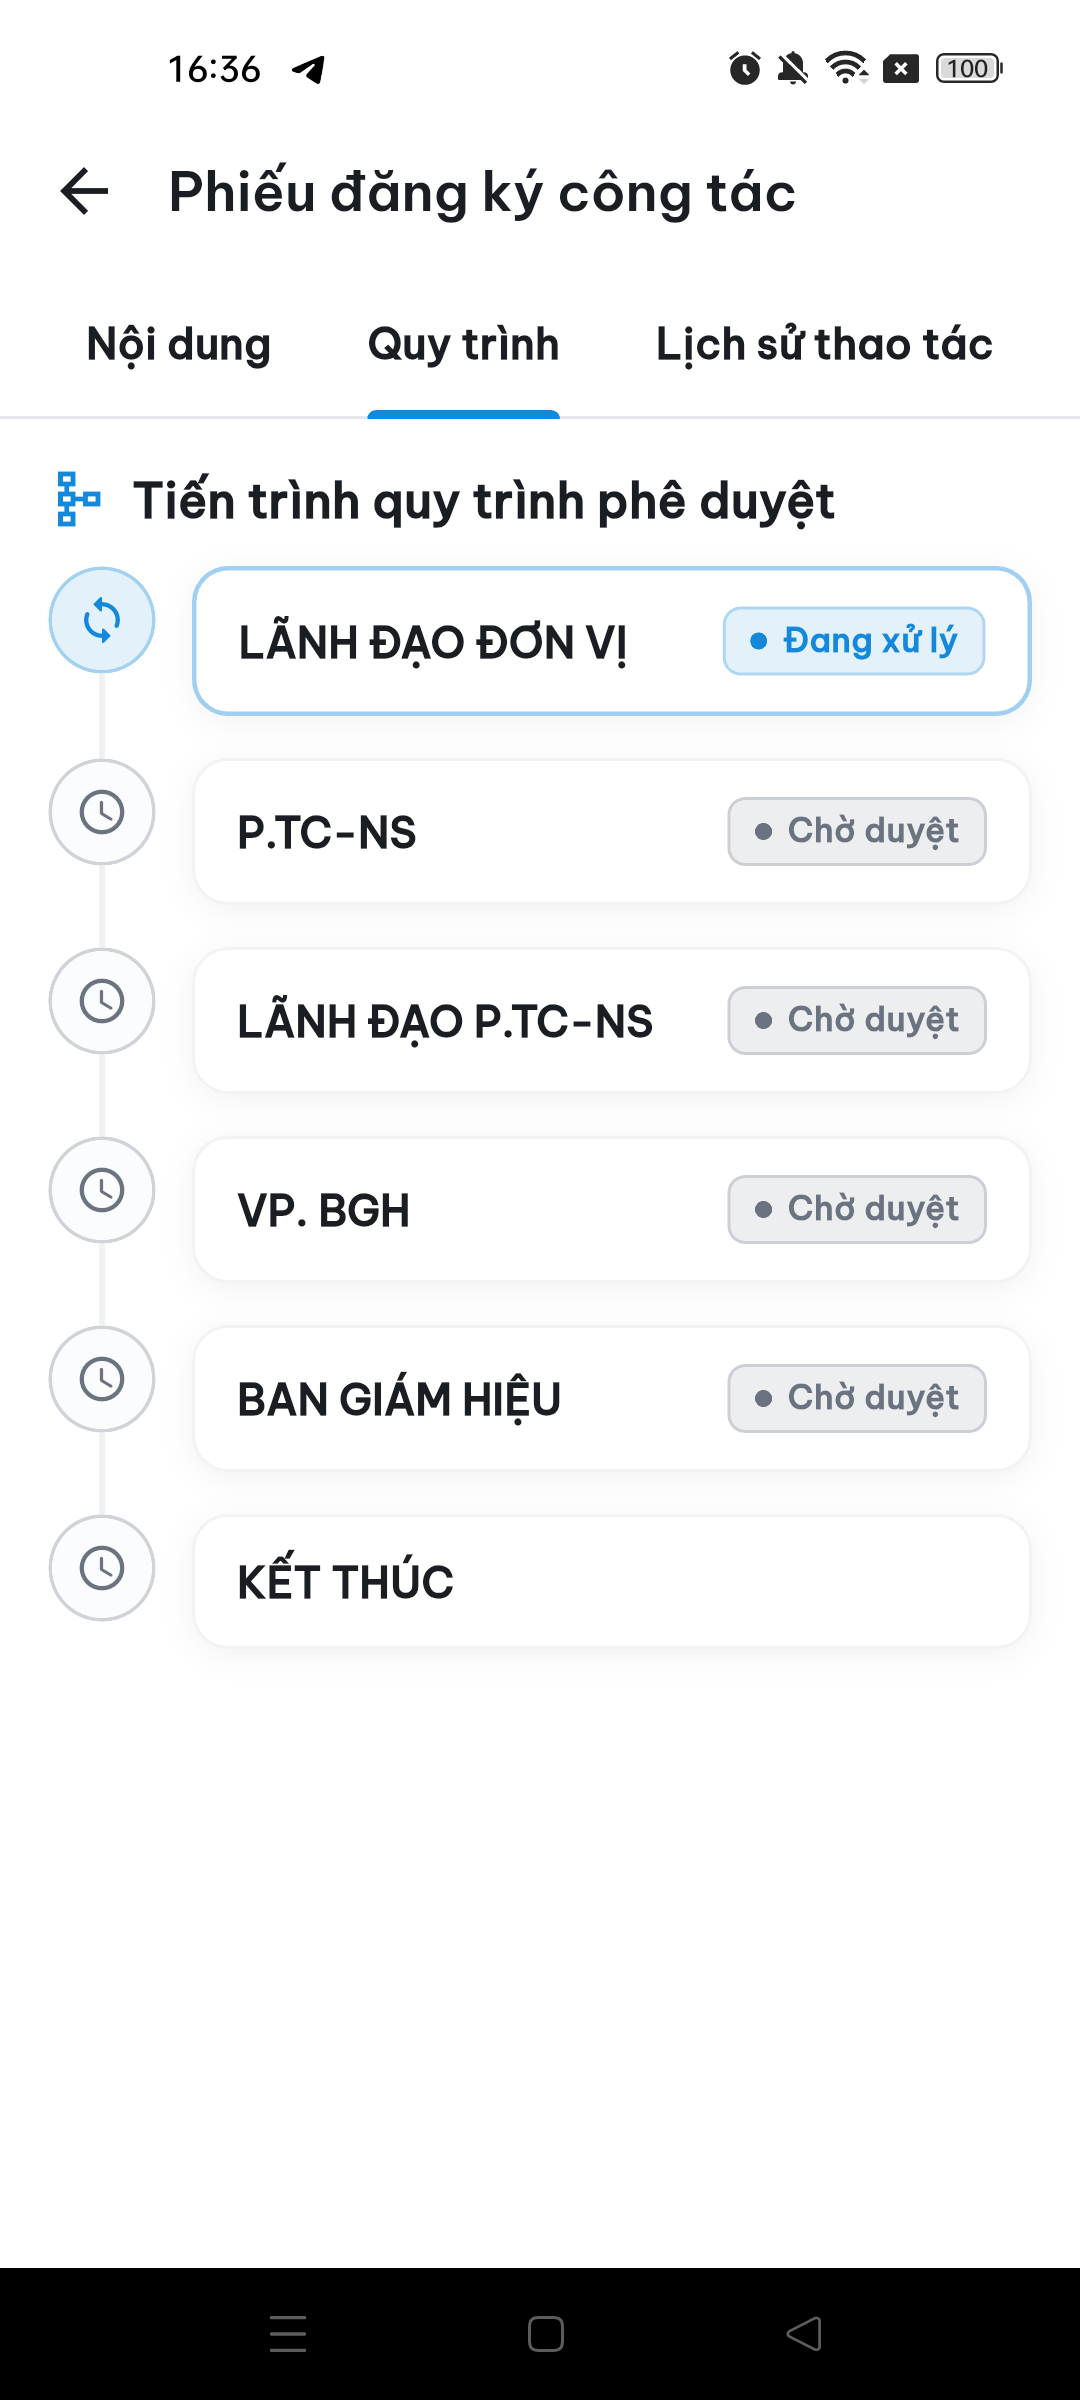
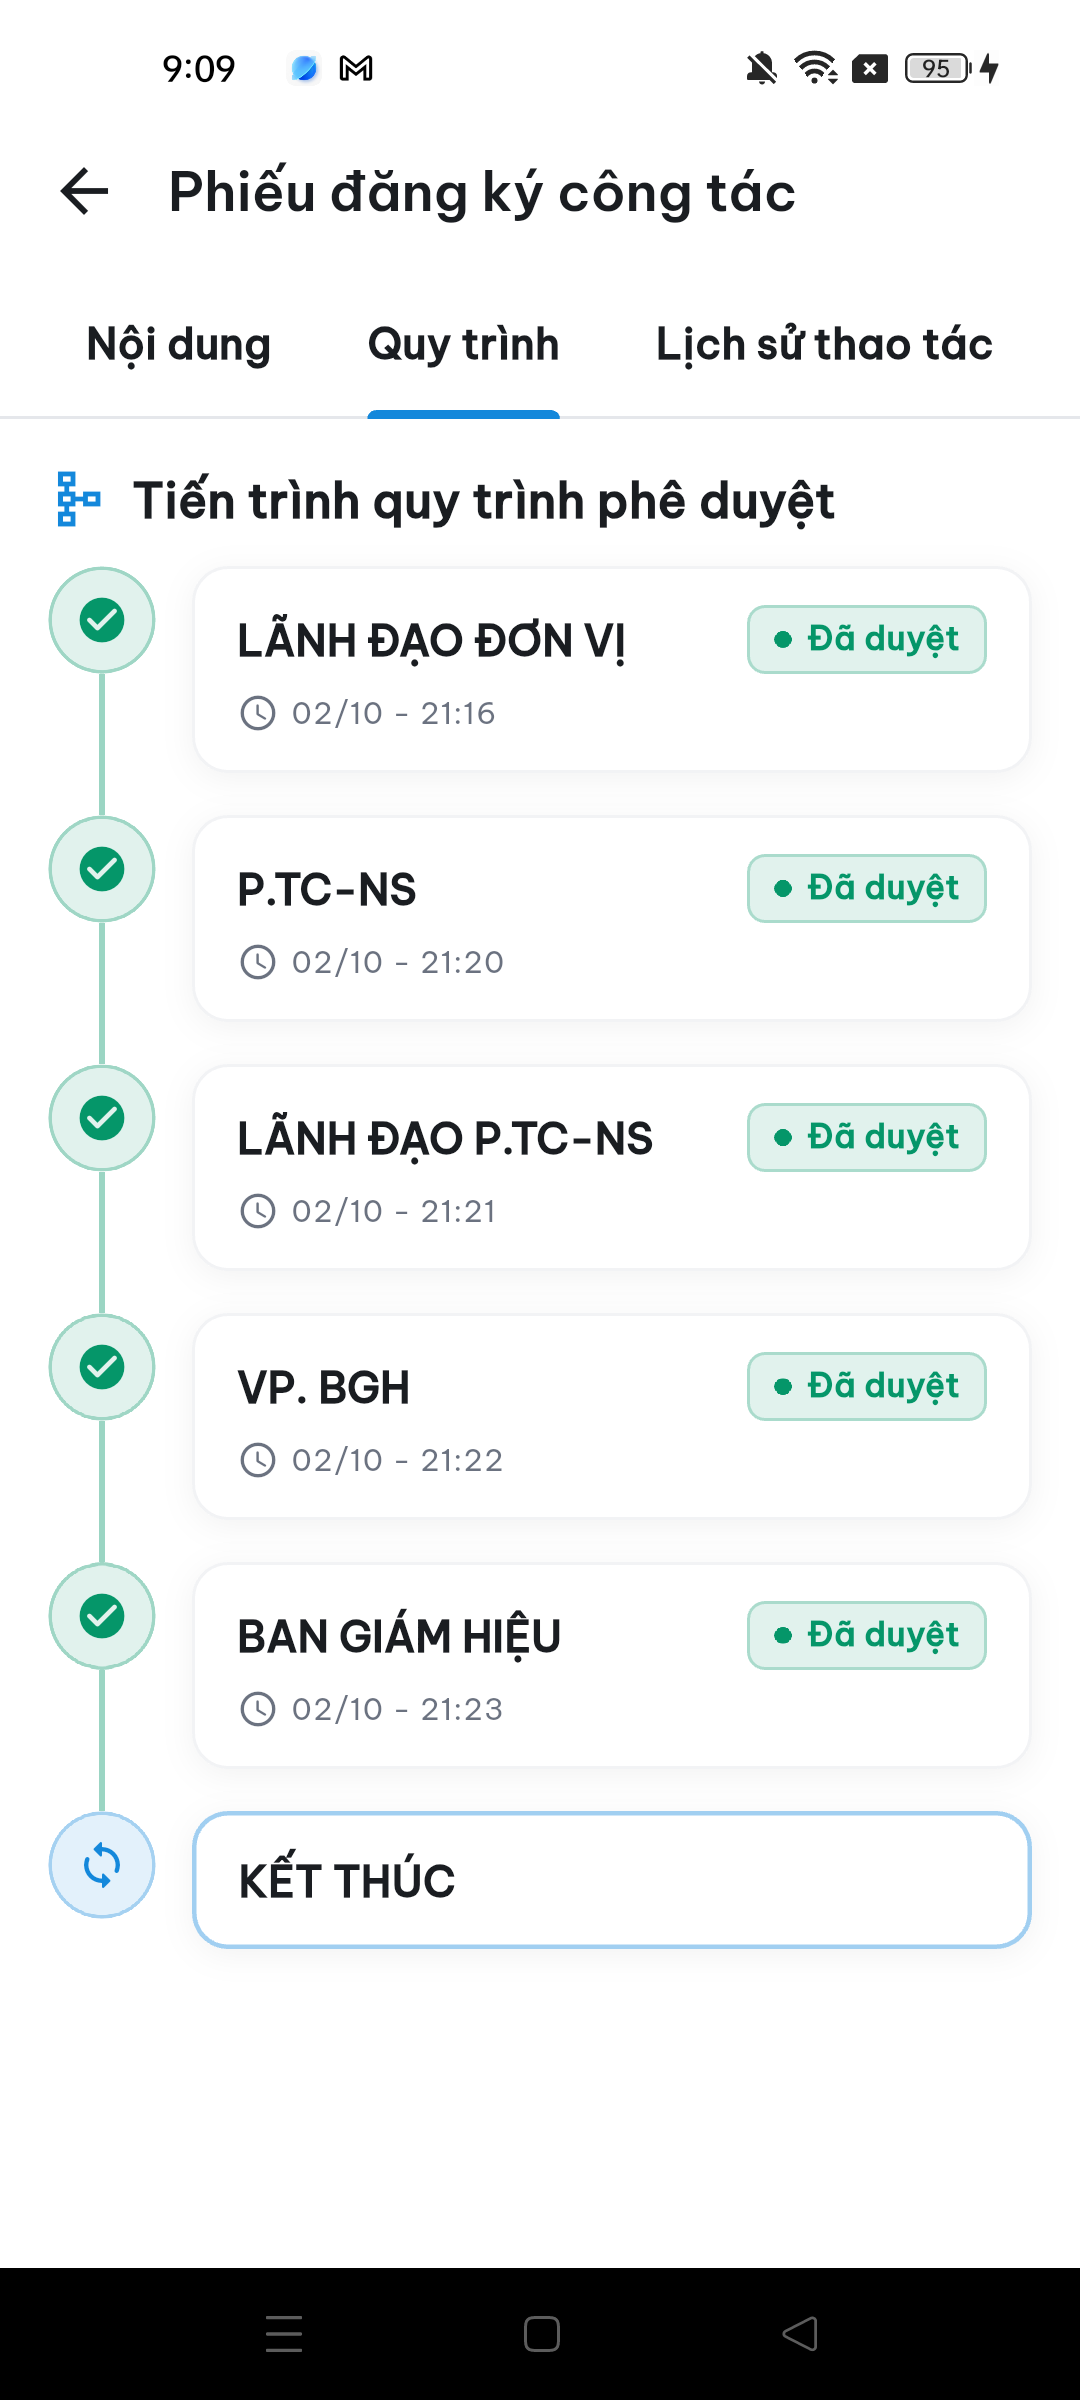
docs(thesis): align formatting and update chapter figures

diff --git a/main.tex b/main.tex
@@ -1,13 +1,19 @@
+% !TeX program = xelatex
 \documentclass[a4paper]{report}
 \usepackage[fontsize=13pt]{scrextend}
+% Keep table text and continuation notes within the required 12--13 pt range.
+\renewcommand{\small}{\fontsize{12pt}{14.5pt}\selectfont}
+\renewcommand{\footnotesize}{\small}
 \usepackage{longtable}
 \usepackage{amsmath}
 \usepackage{indentfirst}
 \usepackage{ragged2e}
 \usepackage{blindtext}
 \usepackage{a4wide,amssymb,epsfig,latexsym,multicol,array,hhline,fancyhdr}
-\usepackage{vntex}
-\usepackage{mathptmx}[ptm]
+\usepackage{fontspec}
+\setmainfont{Times New Roman}
+\setmonofont{Times New Roman}
+\frenchspacing
 \usepackage[normalem]{ulem}
 \usepackage{lastpage}
 \usepackage{enumerate}
@@ -32,7 +38,6 @@
 \usepackage{pdfpages}
 \usepackage{listings}
 \usepackage{textcomp}
-\usepackage{gensymb}
 \usepackage{xltabular}
 \usepackage{enumitem}
 \usepackage{etoolbox}
@@ -48,7 +53,6 @@
 \makeatother
 \usepackage{comment}
 \usepackage{microtype}
-\usepackage[htt]{hyphenat}
 \usepackage{tocloft}
 \usepackage{appendix}
 \usepackage{algorithm}
@@ -74,10 +78,10 @@
 
 \def\thesislayout{	% A4: 210 × 297
 	\newgeometry{
-		left=35mm,
-		top=25mm,
-		bottom=30mm,
-		right=30mm
+		left=30mm,
+		top=20mm,
+		bottom=20mm,
+		right=20mm
 	}
 }
 \def\thesisheadlayout{	% A4: 210 × 297
@@ -90,7 +94,6 @@
 	}
 }
 \AtBeginDocument{\renewcommand*\contentsname{Mục lục}}
-\AtBeginDocument{\renewcommand*\refname{Tài liệu tham khảo}}
 \AtBeginDocument{\renewcommand*\bibname{Tài liệu tham khảo}}
 \AtBeginDocument{\renewcommand*\listfigurename{Danh sách hình ảnh}}
 \AtBeginDocument{\renewcommand*\listtablename{Danh sách bảng}}
@@ -361,6 +364,7 @@
 {\fontsize{12pt}{0pt} TP. HỒ CHÍ MINH, Tháng 10/2026}
 \end{center}
 \end{titlepage}
+\thesislayout
 \hypersetup{pageanchor=true}
 
 \renewcommand{\figurename}{\textbf{Hình}}
@@ -392,7 +396,6 @@
 %%%%%%%%%%%%%%%%%%%%%%%%%%%%%%%%%
 \pagenumbering{arabic}
 \setcounter{page}{1}
-\thesislayout
 
 \include{Chapter1/index}
 \include{Chapter2/index}

diff --git a/Chapter5/section3.tex b/Chapter5/section3.tex
@@ -253,9 +253,3 @@ Các liên kết thông qua \texttt{general\_id}, \texttt{item\_id} và \texttt{
 \end{figure}
 
 \input{Chapter5/data_dictionary/ioffice_schedule}
-
-\subsection{Truy vết dữ liệu của các chức năng native}
-
-Đối với chức năng cập nhật hồ sơ native, dữ liệu ban đầu được lấy từ HRM. Khi người dùng đề xuất thay đổi đối với nội dung cần thẩm định, yêu cầu, chi tiết thay đổi và tệp minh chứng được lưu tại các nhóm dữ liệu tương ứng. Sau khi yêu cầu được xử lý, ứng dụng tải lại trạng thái và dữ liệu đã được HRM chấp thuận thay vì duy trì một bản hồ sơ chính thức riêng trên thiết bị.
-
-Đối với chức năng tạo hoặc đăng ký lịch họp, dữ liệu được ghi vào các thành phần lịch và phân công tương ứng của iOffice theo nhánh nghiệp vụ được thực hiện. Tệp đính kèm được liên kết với mục lịch sau khi mục này được tạo. Quyền xem lịch chờ và quyền phát hành lịch được xác định độc lập theo xử lý của iOffice; việc một người có thể xem một mục lịch không đồng nghĩa với quyền phát hành mục lịch đó.

diff --git a/Chapter6/section2.tex b/Chapter6/section2.tex
@@ -113,4 +113,4 @@ Một số nội dung cần tiếp tục hoàn thiện gồm xử lý khi một 
 
 Chương này đã trình bày kết quả hiện thực các chức năng chính của MyHCMUT Mobile và kết quả kiểm thử tự động, kiểm thử trên hệ thống tích hợp. Ứng dụng cung cấp giao diện di động và khai thác dữ liệu, quy trình nghiệp vụ từ HRM và iOffice thay vì thay thế các hệ thống nguồn.
 
-Kết quả kiểm thử cho thấy các chức năng chính hoạt động trong phạm vi những kịch bản đã thực hiện, đồng thời ghi nhận các giới hạn về phạm vi thiết bị, xử lý lỗi liên hệ thống, một số trường hợp phân quyền và tính nhất quán dữ liệu. Đây là cơ sở để tổng kết kết quả đạt được và đề xuất hướng phát triển ở Chương~7.
+Kết quả kiểm thử cho thấy các chức năng chính hoạt động trong phạm vi những kịch bản đã thực hiện, đồng thời ghi nhận các giới hạn về phạm vi thiết bị, xử lý lỗi liên hệ thống, một số trường hợp phân quyền và tính nhất quán dữ liệu.

diff --git a/Chapter5/index.tex b/Chapter5/index.tex
@@ -8,6 +8,5 @@
 \input{Chapter5/section2}
 \newpage
 \input{Chapter5/section3}
-\newpage
 \input{Chapter5/section4}
 \input{Chapter5/section5}

diff --git a/README.md b/README.md
@@ -87,7 +87,10 @@ KHCN, ký số PKI và họp trực tuyến WebRTC không thuộc phạm vi nghi
 
 ### 1. Yêu cầu hệ thống
 - Phân phối TeX: **TeX Live** (Linux/Windows), **MacTeX** (macOS), hoặc **MiKTeX**.
-- Gói bổ trợ tiếng Việt: `vntex`, `geometry`, `fancyhdr`, `tikz`, `algorithm2e`, `listings`, `hyperref`.
+- Trình biên dịch: **XeLaTeX**, hỗ trợ trực tiếp tiếng Việt Unicode và font hệ thống.
+- Font hệ thống: **Times New Roman**, đủ bốn kiểu Regular, Bold, Italic và Bold Italic. Cần cài font trước khi biên dịch; không thay bằng Nimbus Roman/Liberation Serif.
+- Gói bổ trợ: `fontspec`, `geometry`, `fancyhdr`, `tikz`, `algorithm`, `listings`, `hyperref`.
+- Nội dung dùng cỡ chữ 13 pt, chữ nhỏ trong bảng và ghi chú tiếp trang dùng 12 pt; từ Lời cam đoan trở đi, lề trái 3 cm, phải/trên/dưới 2 cm. Bố cục bìa hiện tại được giữ để nhóm hoàn thiện sau.
 
 ### 2. Biên dịch bằng dòng lệnh (Terminal)
 
@@ -95,17 +98,19 @@ Khuyến nghị sử dụng `latexmk` để tự động hóa quá trình biên 
 
 ```bash
 # Biên dịch tài liệu ra file PDF
-latexmk -pdf -interaction=nonstopmode main.tex
+latexmk -interaction=nonstopmode main.tex
 
 # Dọn dẹp các file phụ trợ sinh ra khi build
 latexmk -c
 ```
 
-Hoặc sử dụng `pdflatex`:
+File `.latexmkrc` chọn XeLaTeX mặc định và cũng hỗ trợ các recipe hiện có dùng `latexmk -pdf`. Không chạy `pdflatex` trực tiếp vì trình biên dịch này không hỗ trợ `fontspec`.
+
+Hoặc sử dụng `xelatex` (chạy thêm nếu còn cảnh báo yêu cầu biên dịch lại):
 
 ```bash
-pdflatex -interaction=nonstopmode main.tex
-pdflatex -interaction=nonstopmode main.tex
+xelatex -interaction=nonstopmode main.tex
+xelatex -interaction=nonstopmode main.tex
 ```
 
 ### 3. Biên dịch trên Visual Studio Code
